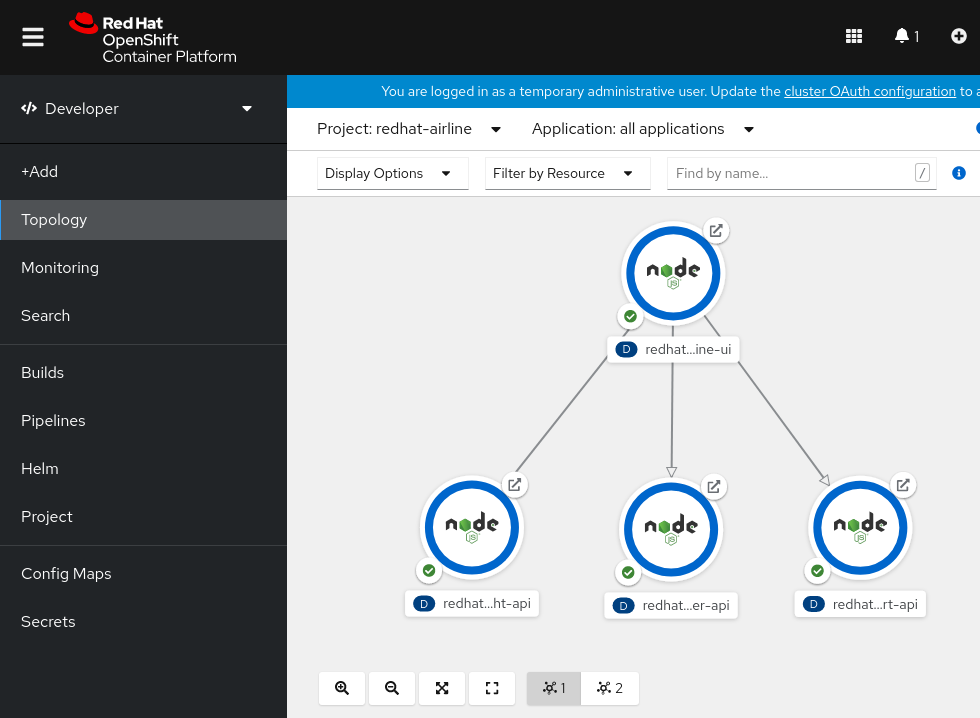
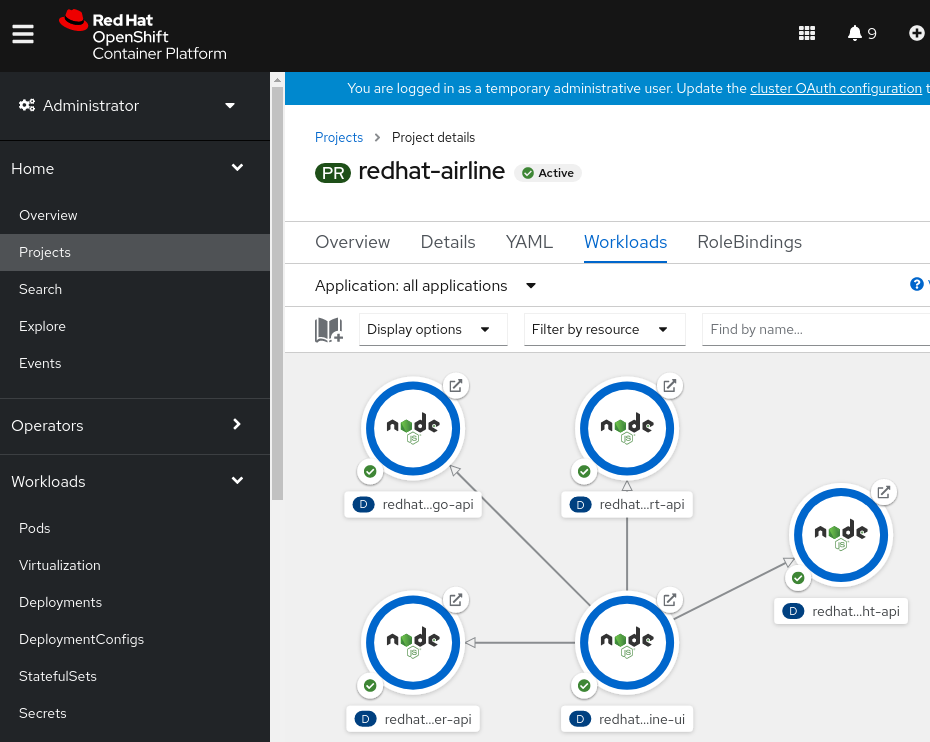
more docs updates

diff --git a/README.md b/README.md
@@ -95,7 +95,7 @@ oc expose service/redhat-airline-ui
 ```
 oc label deployment -l app=redhat-airline app.kubernetes.io/name=nodejs
 
-oc annotate deployment -l app=redhat-airline-ui app.openshift.io/connects-to='[{"apiVersion":"apps/v1","kind":"Deployment","name":"redhat-airline-airport-api"},{"apiVersion":"apps/v1","kind":"Deployment","name":"redhat-airline-crewmember-api"},{"apiVersion":"apps/v1","kind":"Deployment","name":"redhat-airline-flight-api"}]'
+oc annotate deployment/redhat-airline-ui app.openshift.io/connects-to='[{"apiVersion":"apps/v1","kind":"Deployment","name":"redhat-airline-flight-api"},{"apiVersion":"apps/v1","kind":"Deployment","name":"redhat-airline-airport-api"},{"apiVersion":"apps/v1","kind":"Deployment","name":"redhat-airline-cargo-api"},{"apiVersion":"apps/v1","kind":"Deployment","name":"redhat-airline-crewmember-api"}]'
 ```
 <img src="https://github.com/vincent-tsugranes/redhat-airline-ui/raw/main/public/redhat-airline-openshift-console.png"></img>
 
